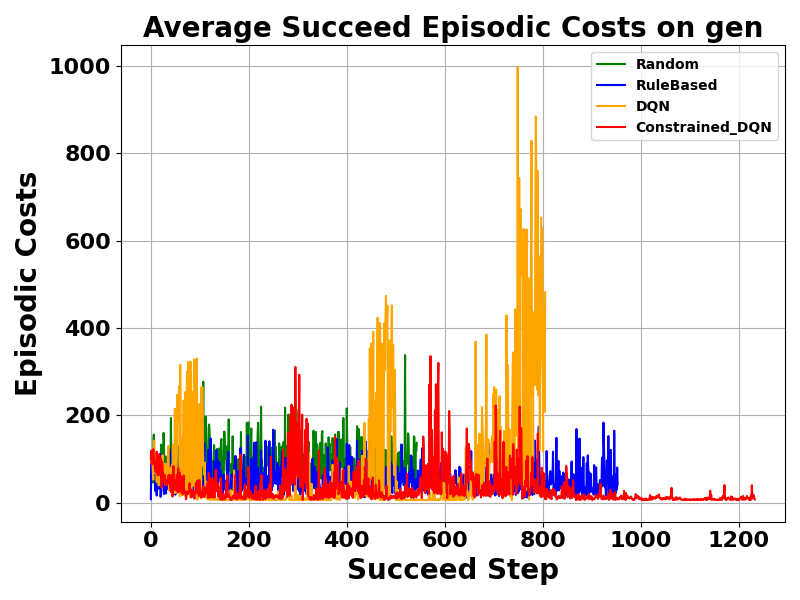
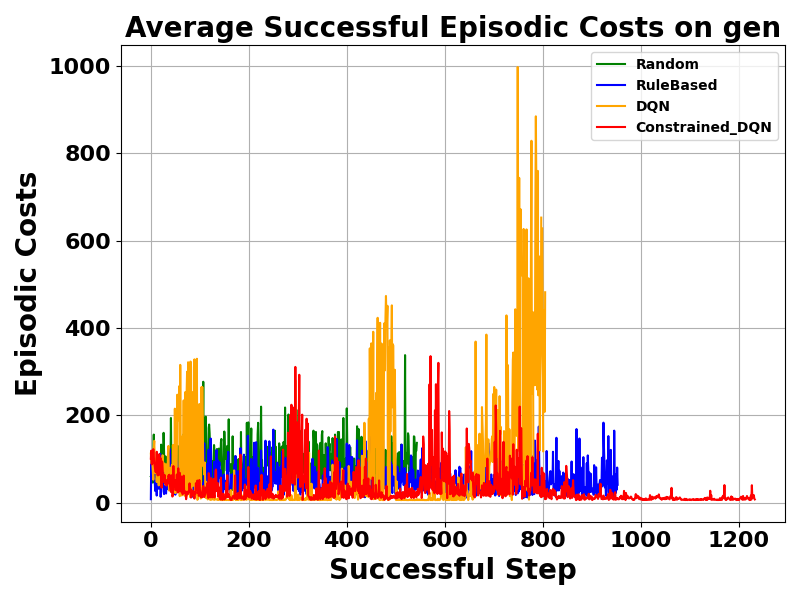
upload the code and experimental data

Changed region(s): [[0.1562, 0.0, 1.0, 0.09], [0.4062, 0.93, 0.7188, 0.99]]

diff --git a/plot_results.py b/plot_results.py
@@ -150,9 +150,9 @@ for env in envs:
         _, _, _, _, cost_steps, avg_cost_success = load_runs(env,folder_name, method)
         episode_indices = np.arange(len(avg_cost_success))
         plt.plot(episode_indices, avg_cost_success, label=method, color=color_dict[method])
-    plt.xlabel('Succeed Step', fontsize=20, fontweight='bold')
+    plt.xlabel('Successful Step', fontsize=20, fontweight='bold')
     plt.ylabel('Episodic Costs', fontsize=20, fontweight='bold')
-    plt.title(f'Average Succeed Episodic Costs on {env}', fontsize=20, fontweight='bold')
+    plt.title(f'Average Successful Episodic Costs on {env}', fontsize=20, fontweight='bold')
     plt.grid(True)
     plt.legend(fontsize=18, prop={'weight': 'bold'})
     plt.tick_params(axis='both', labelsize=14)
